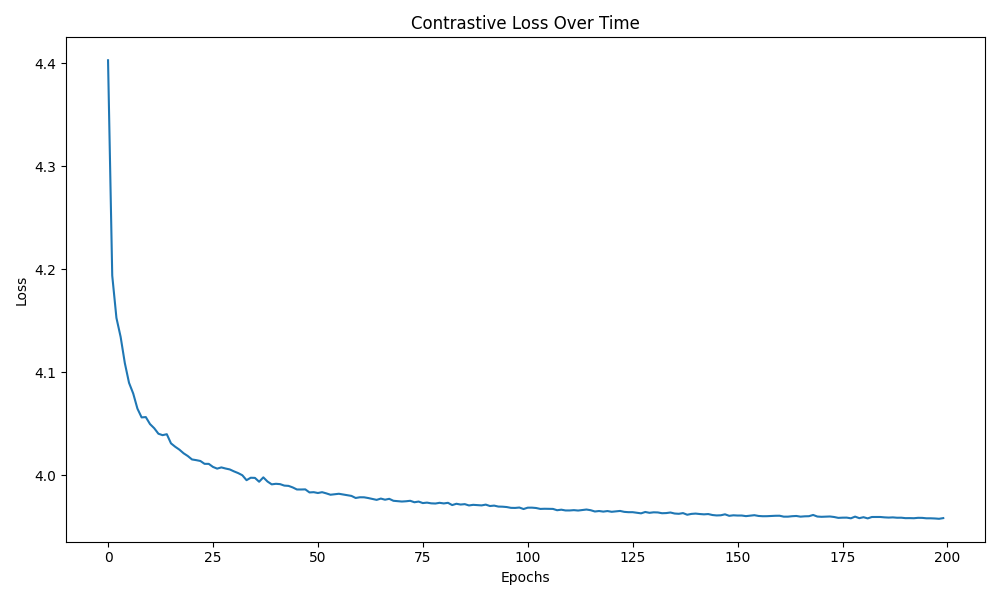
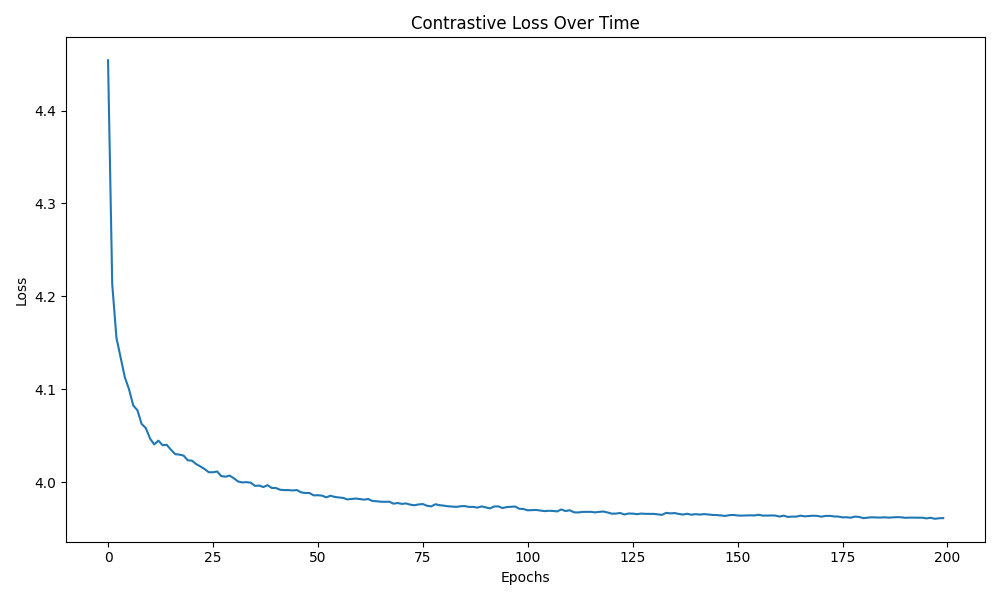
Removed that terrible GeLU (maybe explore it later)

diff --git a/src/models/ContrastiveLearning.py b/src/models/ContrastiveLearning.py
@@ -35,7 +35,7 @@ class ProjectionHead(nn.Module):
     def forward(self, x):
         x = self.fc1(x)
         x = self.bn1(x)
-        x = F.gelu(x)
+        x = F.relu(x)
 
         x = self.fc2(x)
         # x = self.layer_norm(x)
